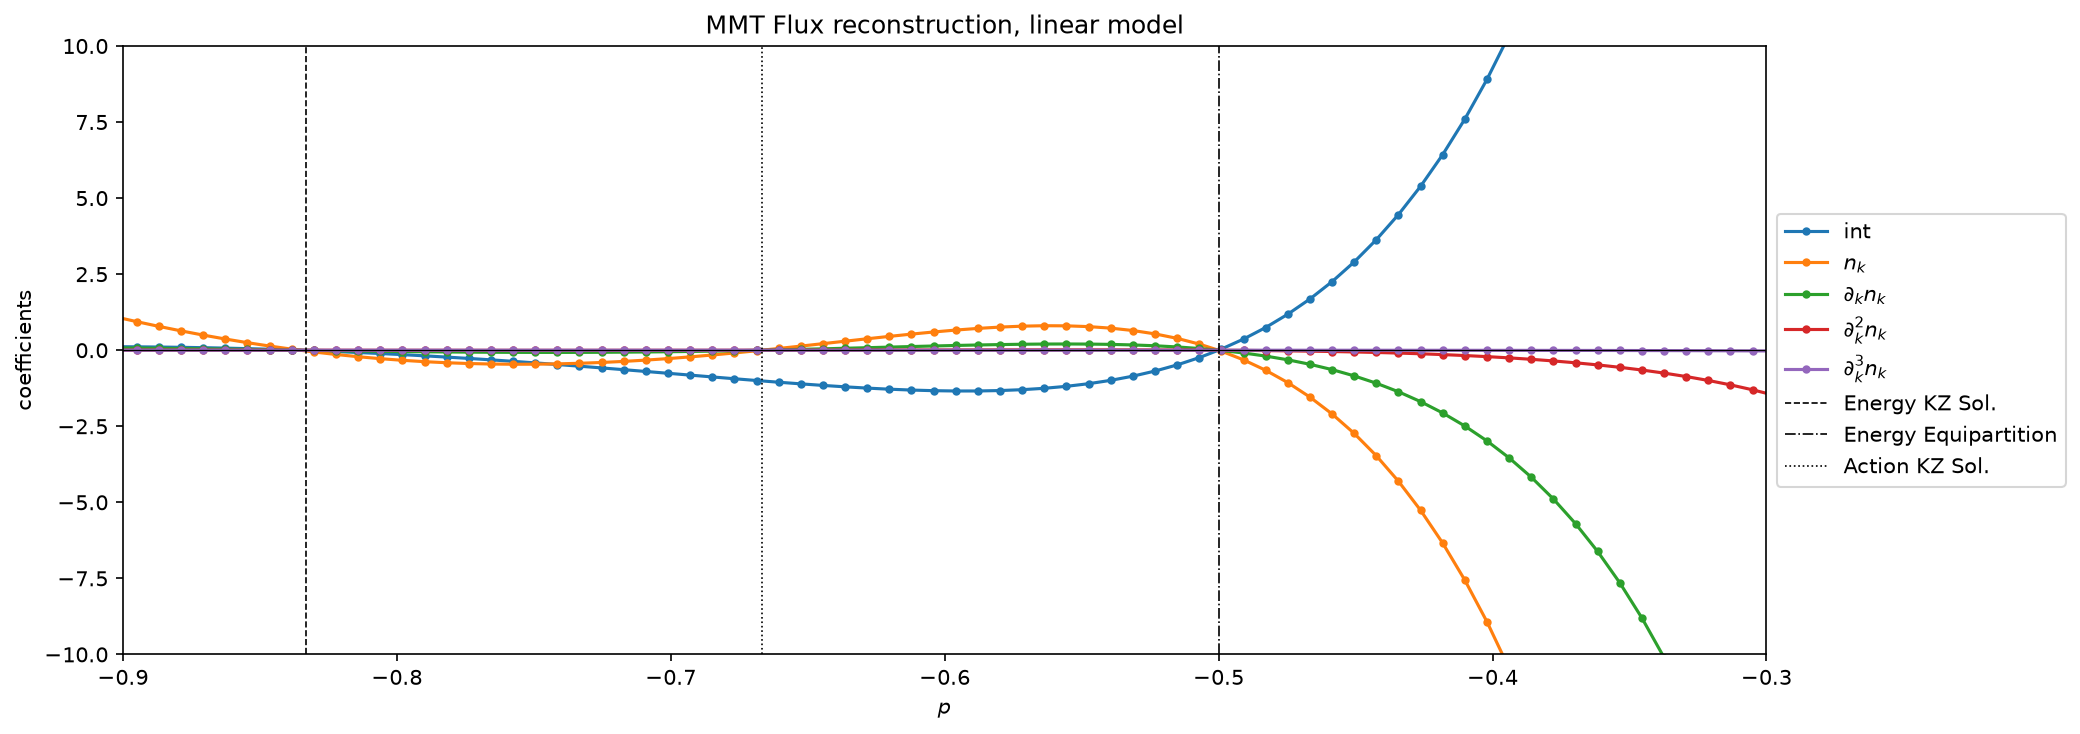
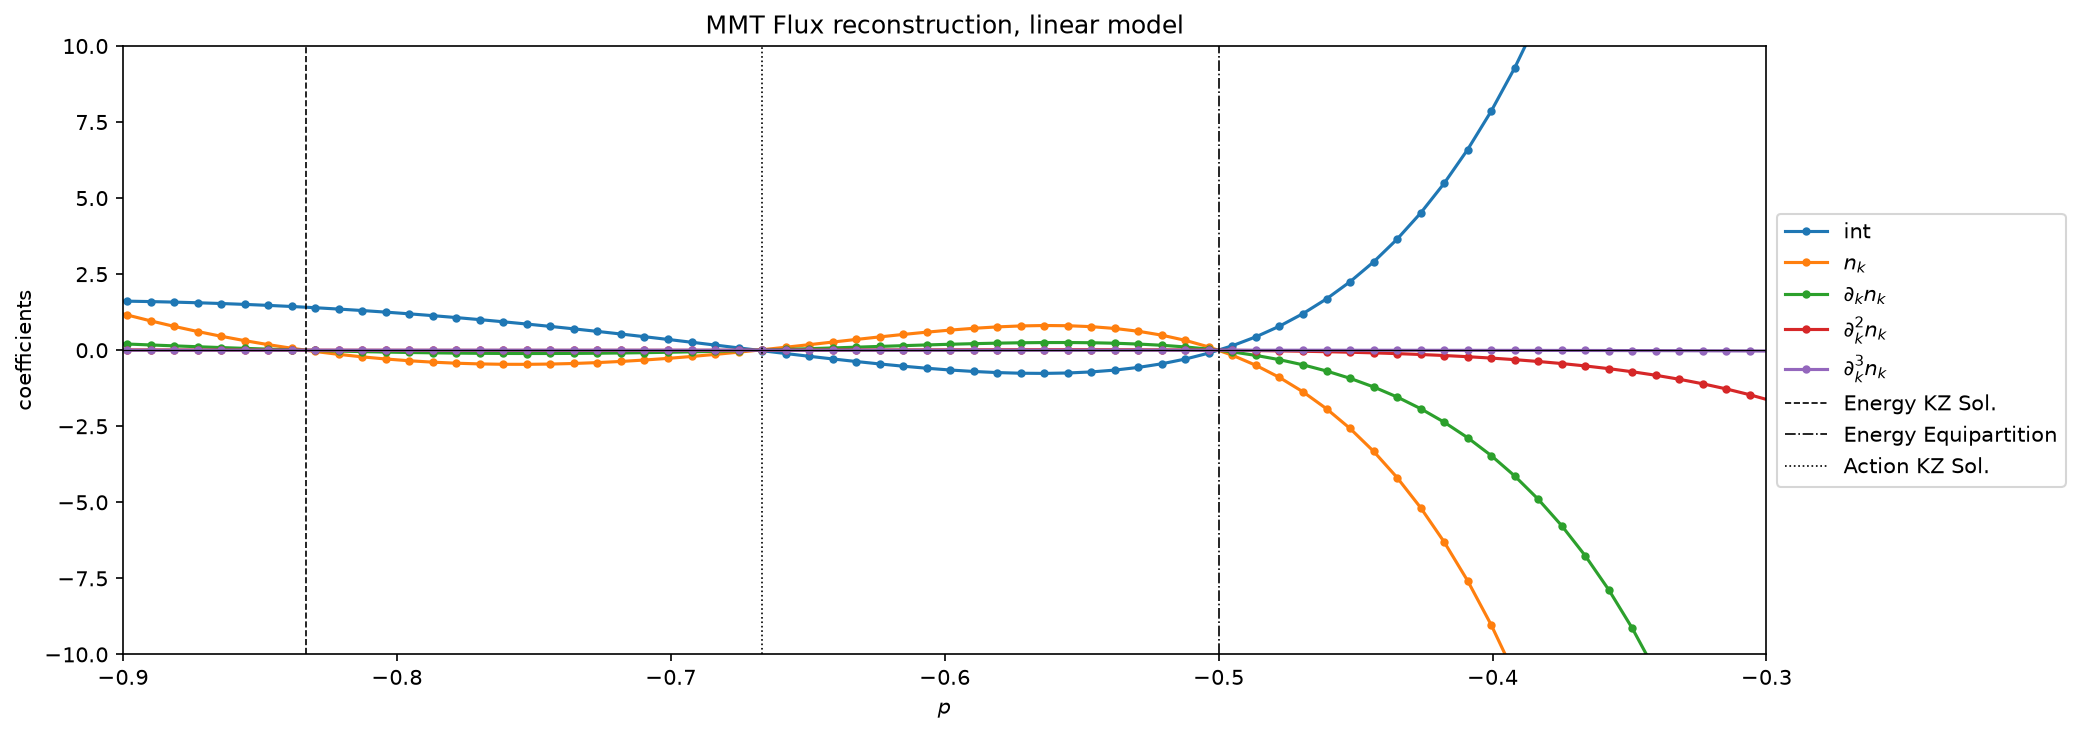
refactor: update plot_coefficients_vs_p_linear function parameters for improved visualization

diff --git a/main_mmt.py b/main_mmt.py
@@ -84,11 +84,11 @@ test_data = splits["test"]
 
 #print("Coefficienti (solver MMT): ", coef_e_l ,"| R^2: ", r2_e_l, "errore relativo: ", rel_e_l)
 
-#plot_coefficients_vs_p_linear(
-#    ps = np.linspace(-1, -0.2, 100), A = 1, k = np.linspace(0.1, 1.0, 100), beta = 0.25, 
-#    k_min = config.K_MIN, k_max = config.K_MAX, N=300, IntN=200, max_order=4,
-#    save_path="outputs_mmt/coefficients_vs_p_mmt_linear", show=False 
-#)
+plot_coefficients_vs_p_linear(
+    ps = np.linspace(-0.95, -0.1, 100), A = 1, k = np.linspace(0.1, 1.0, 100), beta = 0.25, 
+    k_min = config.K_MIN, k_max = config.K_MAX, N=300, IntN=200, max_order=4,
+    save_path="outputs_mmt/coefficients_vs_p_mmt_linear", show=False 
+)
 
 
 #(coef_e, rel_error) = fit_flux_through_1(
